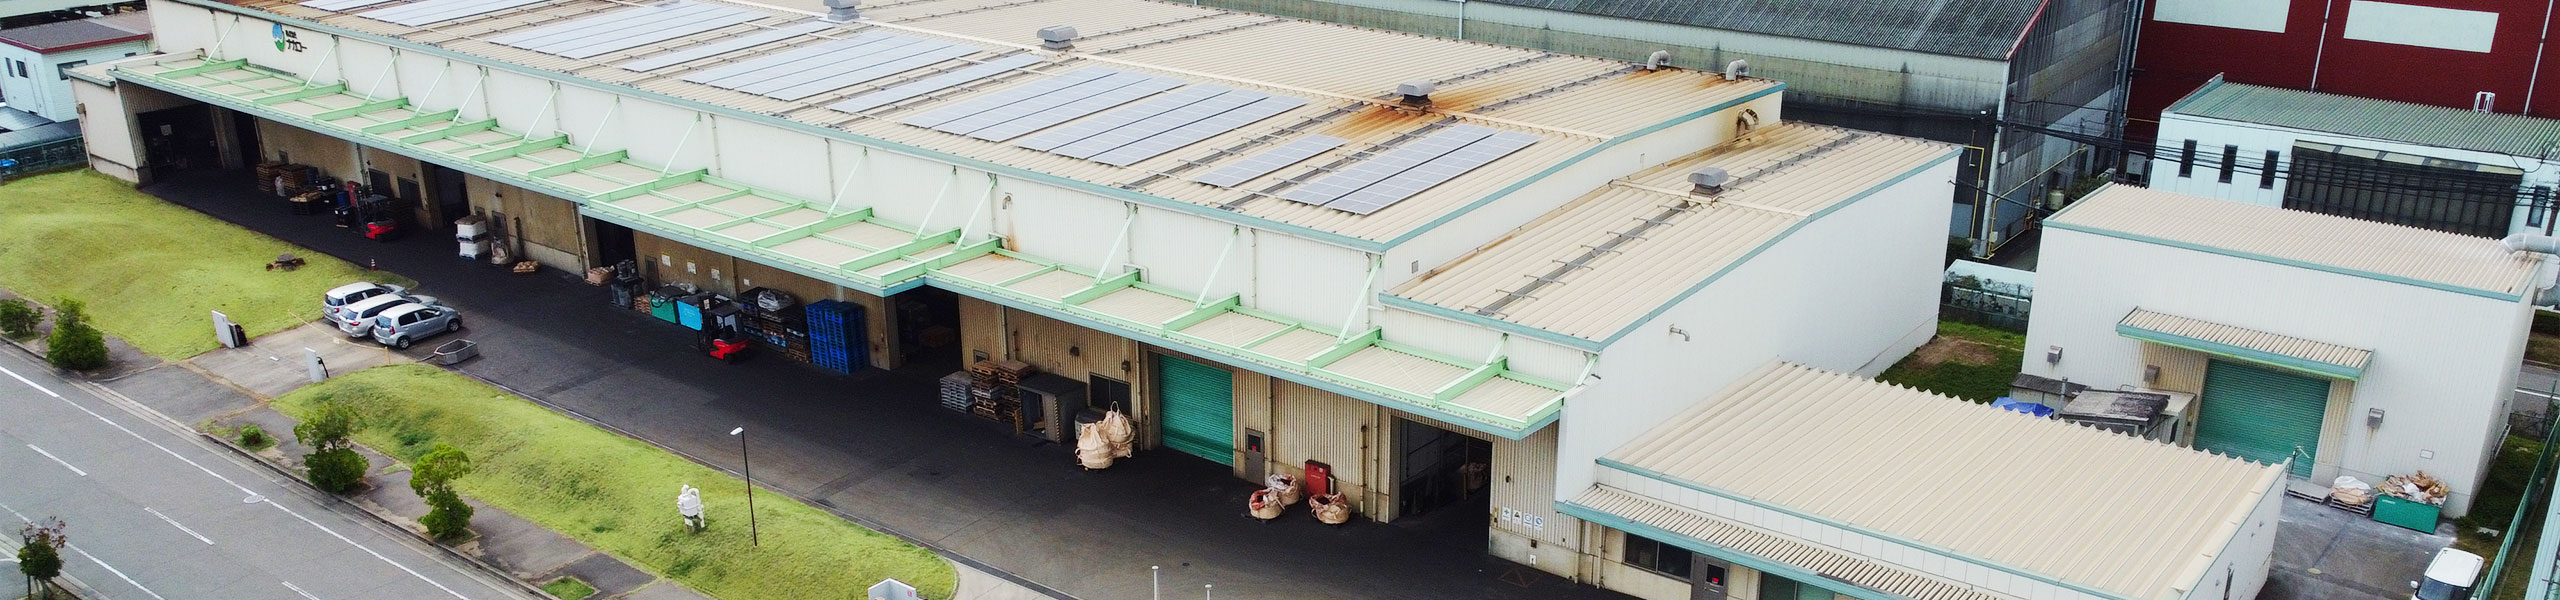
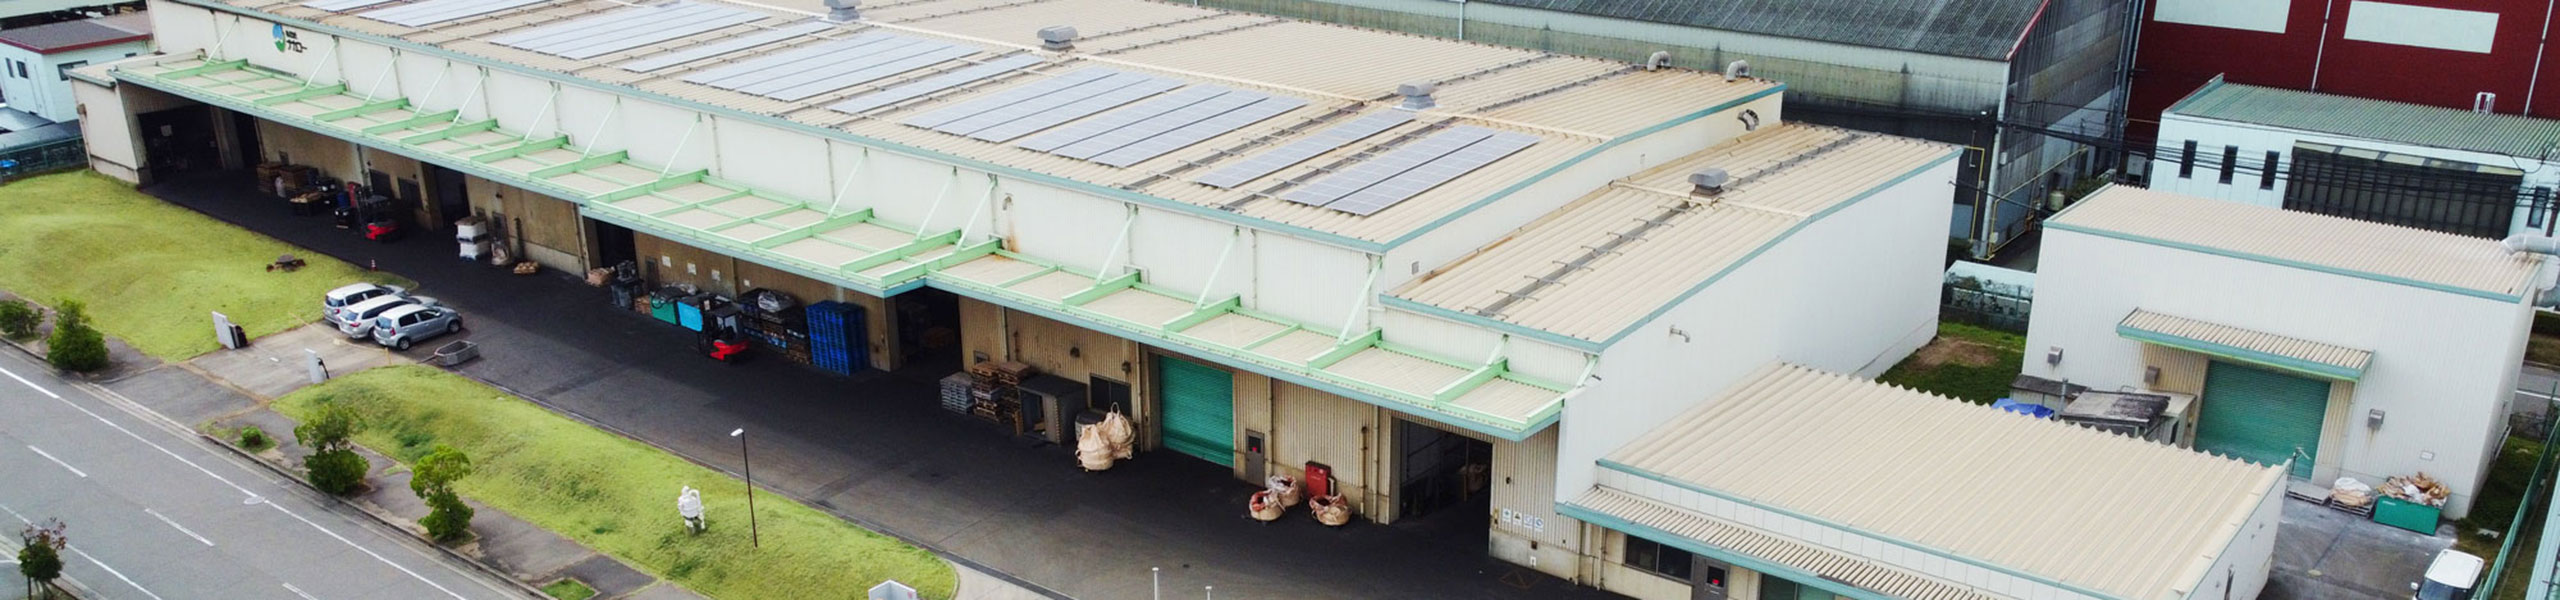
トップメイン画像のレタッチ、文言修正、デザイン微調整

diff --git a/powder-processing/index.html b/powder-processing/index.html
@@ -298,7 +298,7 @@
 
         <div class="process-group">
           <h3 class="title--outline">乾燥加工</h3>
-          <p class="process-group__lead">連動式、バッチ式の各種乾燥機を用い、造立物や粉末の特性や適性に合わせて乾燥設備を選定し乾燥します。</p>
+          <p class="process-group__lead">連続式、バッチ式の各種乾燥機を用い、造粒物や粉末の特性や適性に合わせて乾燥設備を選定し乾燥します。</p>
           <div class="process-gallery">
             <img src="../assets/img/powder-kanso1.jpg" alt="乾燥加工設備写真1">
             <img src="../assets/img/powder-kanso2.jpg" alt="乾燥加工設備写真2">
@@ -308,7 +308,7 @@
 
         <div class="process-group">
           <h3 class="title--outline">その他設備</h3>
-          <p class="process-group__lead">粉砕後製品の詰め替え（リパック）を行います。<br>梱包については、お客様のご要望に合わせた梱包装材や重量での包装が可能です。<br>目的に応じた分析機器を選定し分析します。</p>
+          <p class="process-group__lead">粉粒体製品の詰め替え（リパック）を行います。<br>梱包については、お客様のご要望に合わせた梱包資材や重量での包装が可能です。<br>目的に応じた分析機器を選定し分析します。</p>
           <div class="process-gallery">
             <img src="../assets/img/powder-else1.jpg" alt="その他設備写真1">
             <img src="../assets/img/powder-else2.jpg" alt="その他設備写真2">
@@ -318,8 +318,8 @@
       </section>
 
       <section class="powder-section powder-section--cta">
-        <h3 class="powder-cta__title">粉体受託加工へのお問い合わせ</h3>
-        <p class="powder-cta__lead">粉体受託加工については、フォームよりお問い合わせください。</p>
+        <h3 class="powder-cta__title">粉体受託加工への<br class="spbr">お問い合わせ</h3>
+        <p class="powder-cta__lead">粉体受託加工については、<br class="spbr">フォームよりお問い合わせください。</p>
         <a class="btn btn--cta powder-cta__button" href="../contact/">
           <span class="material-symbols-rounded">mail</span>
           お問い合わせフォーム
@@ -684,8 +684,8 @@
       </section>
 
       <section class="powder-section powder-section--cta">
-        <h3 class="powder-cta__title">粉体受託加工へのお問い合わせ</h3>
-        <p class="powder-cta__lead">粉体受託加工については、フォームよりお問い合わせください。</p>
+        <h3 class="powder-cta__title">粉体受託加工への<br class="spbr">お問い合わせ</h3>
+        <p class="powder-cta__lead">粉体受託加工については、<br class="spbr">フォームよりお問い合わせください。</p>
         <a class="btn btn--cta powder-cta__button" href="../contact/">
           <span class="material-symbols-rounded">mail</span>
           お問い合わせフォーム

diff --git a/assets/css/style.css b/assets/css/style.css
@@ -19,12 +19,13 @@
   --font-mincho: "Noto Serif JP", "Noto Sans JP", serif;
   --bp: 768px;
   --container: 1200px;
-  --home-hero-h: 70vh;
+  --home-hero-h: 80vh;
   --home-hero-h-sp: 40vh;
   --home-hero-img-max: 1400px;
   --home-hero-zoom-dur: 40s;
   --header-h: 72px;
   --max-w: 900px;
+  --philosophy-w: 950px;
   /* 粉体ページSP：sticky な .powder-tabs のおよそ高さ（padding + 1行タブ） */
   --powder-tabs-sticky-h: 48px;
 }
@@ -686,7 +687,7 @@ select::-ms-expand {
   height: var(--home-hero-h);
   min-height: var(--home-hero-h);
   object-fit: cover;
-  object-position: center center;
+  object-position: center top;
   transform-origin: center center;
   animation: home-hero-zoom-img var(--home-hero-zoom-dur) ease-in-out infinite;
   will-change: transform;
@@ -1068,7 +1069,7 @@ select::-ms-expand {
 .loc-card__tag {
   display: inline-block;
   margin-top: 0;
-  padding: 4px 12px;
+  padding: 4px 12px 2px;
   border-radius: 999px;
   font-size: 13px;
   background-color: var(--color-white) !important;
@@ -1204,7 +1205,7 @@ select::-ms-expand {
   color: var(--color-white);
 }
 .about-philosophy__inner {
-  max-width: var(--container);
+  max-width: var(--philosophy-w);
   margin: 0 auto;
   display: flex;
   flex-direction: row-reverse;
@@ -2169,6 +2170,10 @@ select::-ms-expand {
     grid-template-columns: 1fr;
     padding: 20px;
   }
+  .loc-card__info {
+    width: 90%;
+    margin: 0 auto;
+  }
   .loc-card__title {
     font-size: 18px;
   }
@@ -2179,6 +2184,7 @@ select::-ms-expand {
     justify-self: center;
     width: 90%;
     max-width: none;
+    margin-bottom: 10px;
   }
   .loc-card__tel {
     font-size: 14px;
@@ -2322,6 +2328,9 @@ select::-ms-expand {
   }
   .powder-cta__lead {
     margin: 14px 0 18px;
+  }
+  .powder-cta__button {
+    padding: 16px 30px;
   }
   .bubbles-container {
     flex-direction: column;

diff --git a/assets/css/contact.css b/assets/css/contact.css
@@ -343,6 +343,10 @@ select.form-field__input--error {
    レスポンシブ（SP）
    ========================================= */
 @media (max-width: 767px) {
+  .page-hero--contact::after {
+    background-image: url("../img/contact-head-sp.png");
+  }  
+
   .contact-box__inner {
     grid-template-columns: 1fr;
   }
